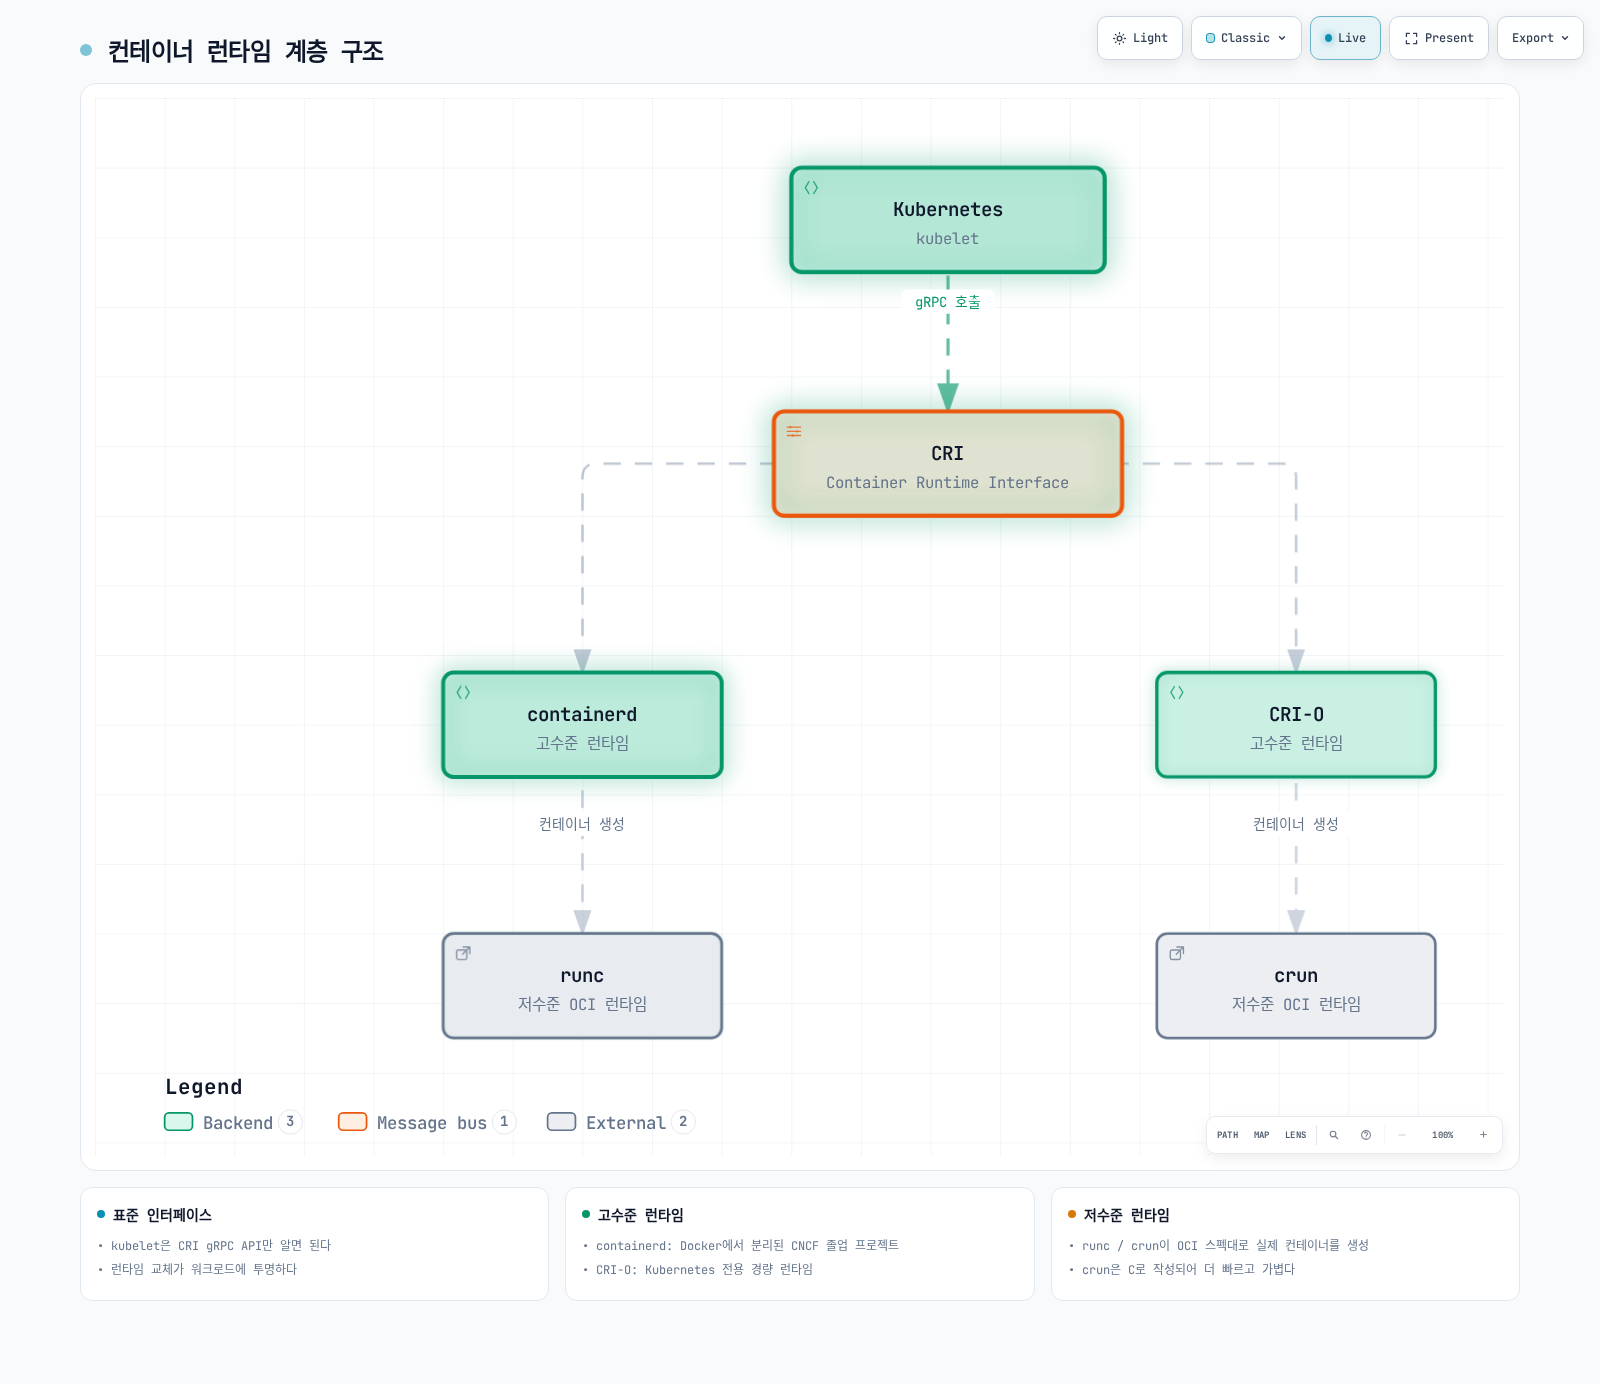
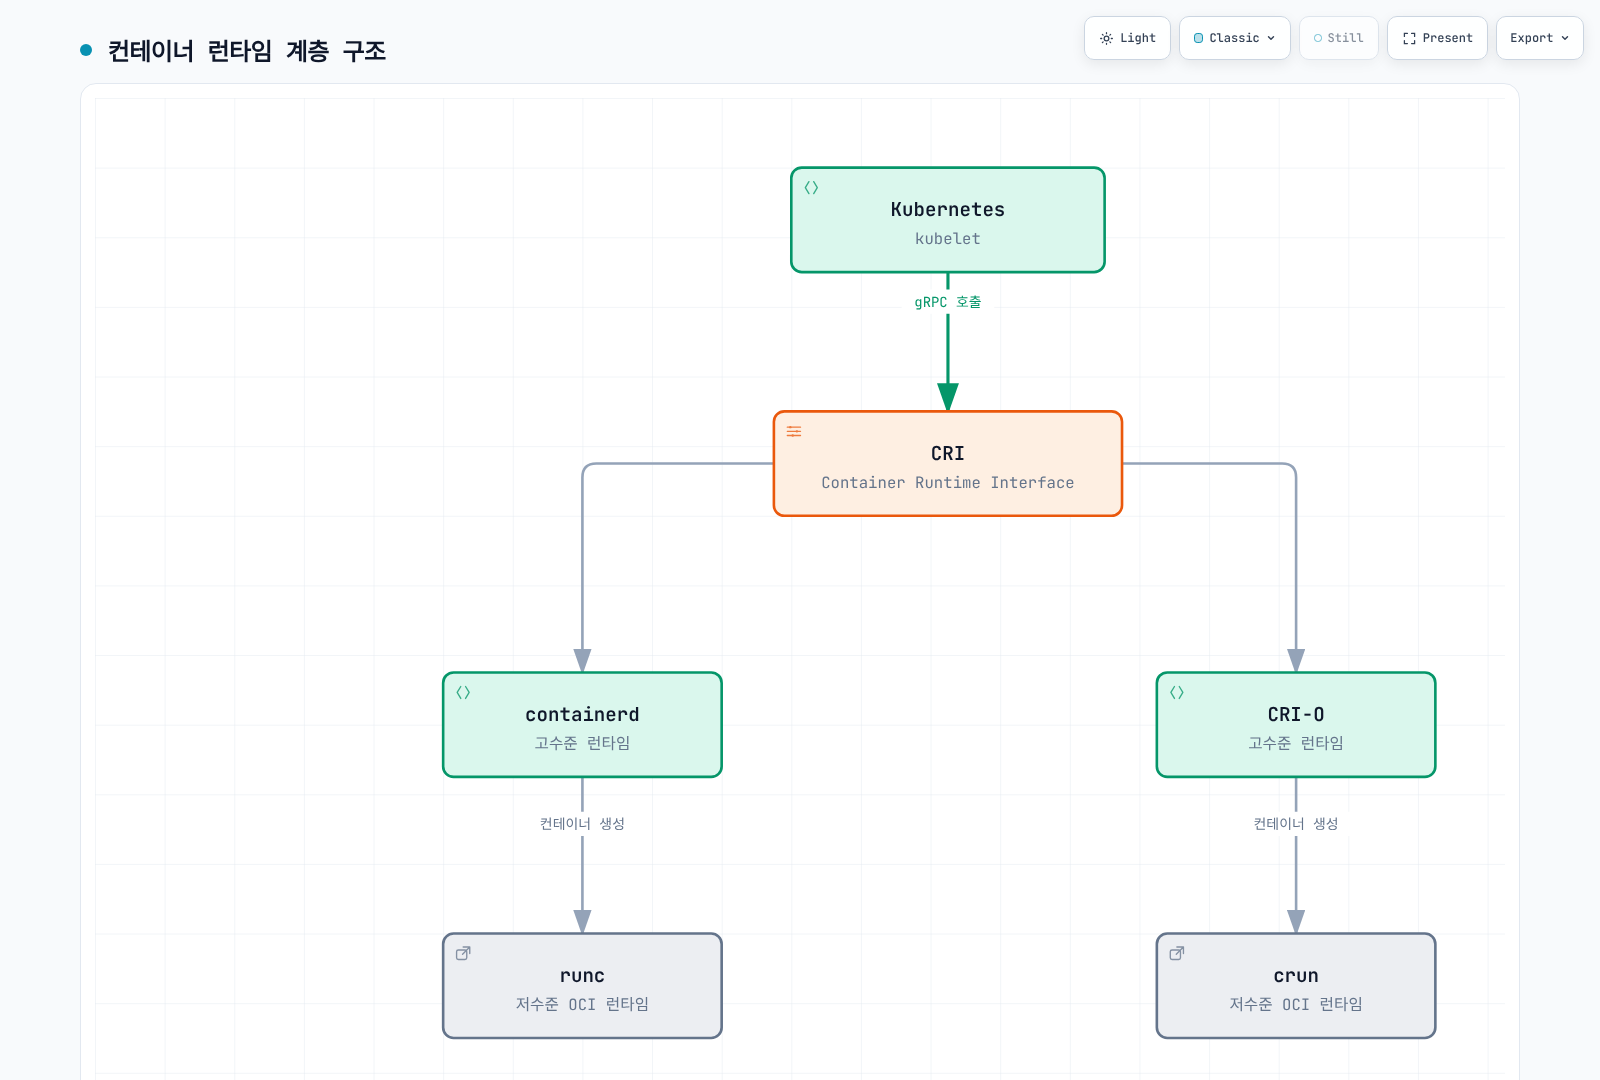
fix(slice5 batch C): hidden legends for 2 more ko specs; keep pre-existing figures byte-identical to main

diff --git a/public/archmaps/ko-core-01-cluster-architecture-1.html b/public/archmaps/ko-core-01-cluster-architecture-1.html
@@ -5131,21 +5131,7 @@
 
 
         <!-- Legend -->
-        <g data-legend="" data-legend-bridge="">
-          <text x="40" y="572" class="t-primary" font-size="12" font-weight="650">Legend</text>
-          <g data-legend-semantic-kind="backend" data-legend-kind="backend" data-legend-label="Backend" data-legend-x="40" data-legend-baseline="592" data-legend-width="78">
-            <rect x="40" y="583" width="16" height="10" rx="2.5" class="c-backend" stroke-width="1"/>
-            <text x="62" y="592" class="t-muted" font-size="10" font-weight="500">Backend</text>
-          </g>
-          <g data-legend-semantic-kind="messagebus" data-legend-kind="messagebus" data-legend-label="Message bus" data-legend-x="140" data-legend-baseline="592" data-legend-width="98">
-            <rect x="140" y="583" width="16" height="10" rx="2.5" class="c-messagebus" stroke-width="1"/>
-            <text x="162" y="592" class="t-muted" font-size="10" font-weight="500">Message bus</text>
-          </g>
-          <g data-legend-semantic-kind="external" data-legend-kind="external" data-legend-label="External" data-legend-x="260" data-legend-baseline="592" data-legend-width="83">
-            <rect x="260" y="583" width="16" height="10" rx="2.5" class="c-external" stroke-width="1"/>
-            <text x="282" y="592" class="t-muted" font-size="10" font-weight="500">External</text>
-          </g>
-        </g>
+
       </svg>
       <p class="intent-trace-status no-print" id="intent-trace-status" role="status" aria-live="polite" aria-atomic="true"></p>
       <div class="share-chapter-cue no-print" id="share-chapter-cue" hidden role="status" aria-live="polite">
